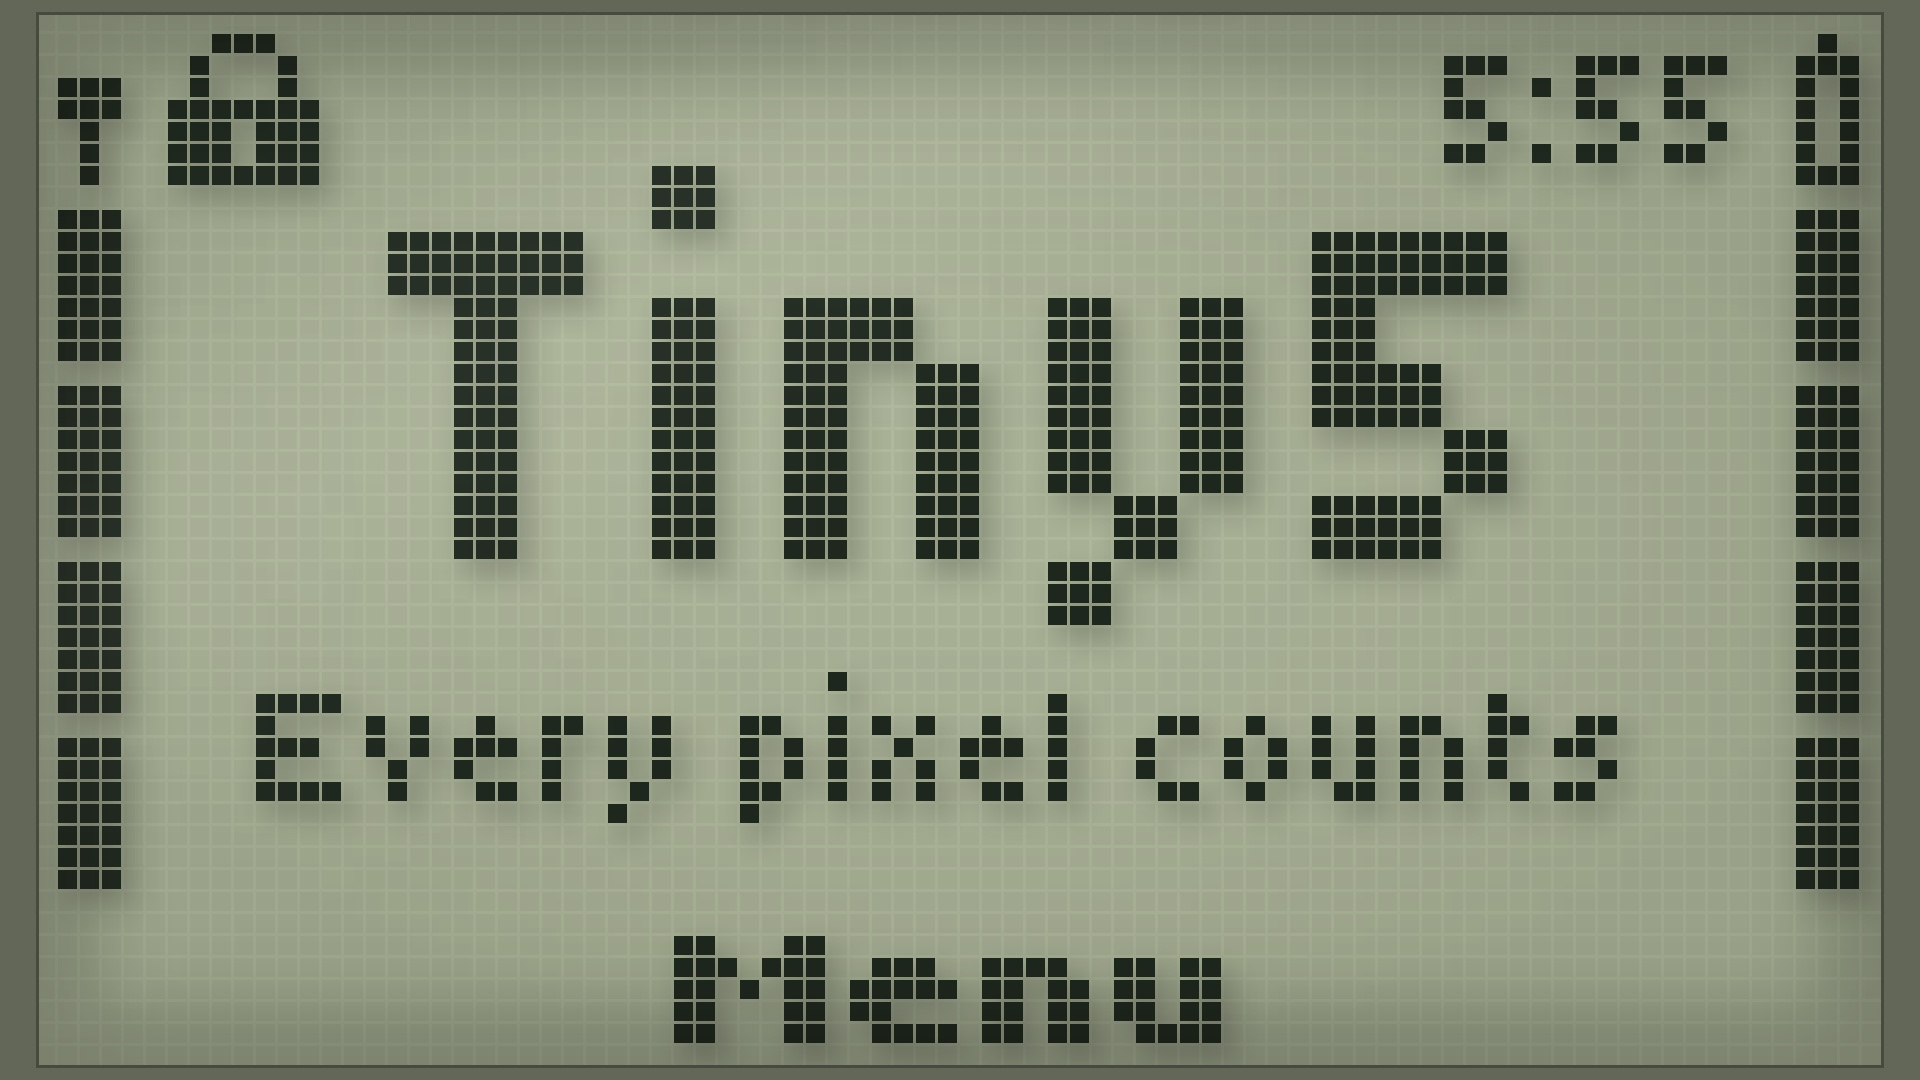
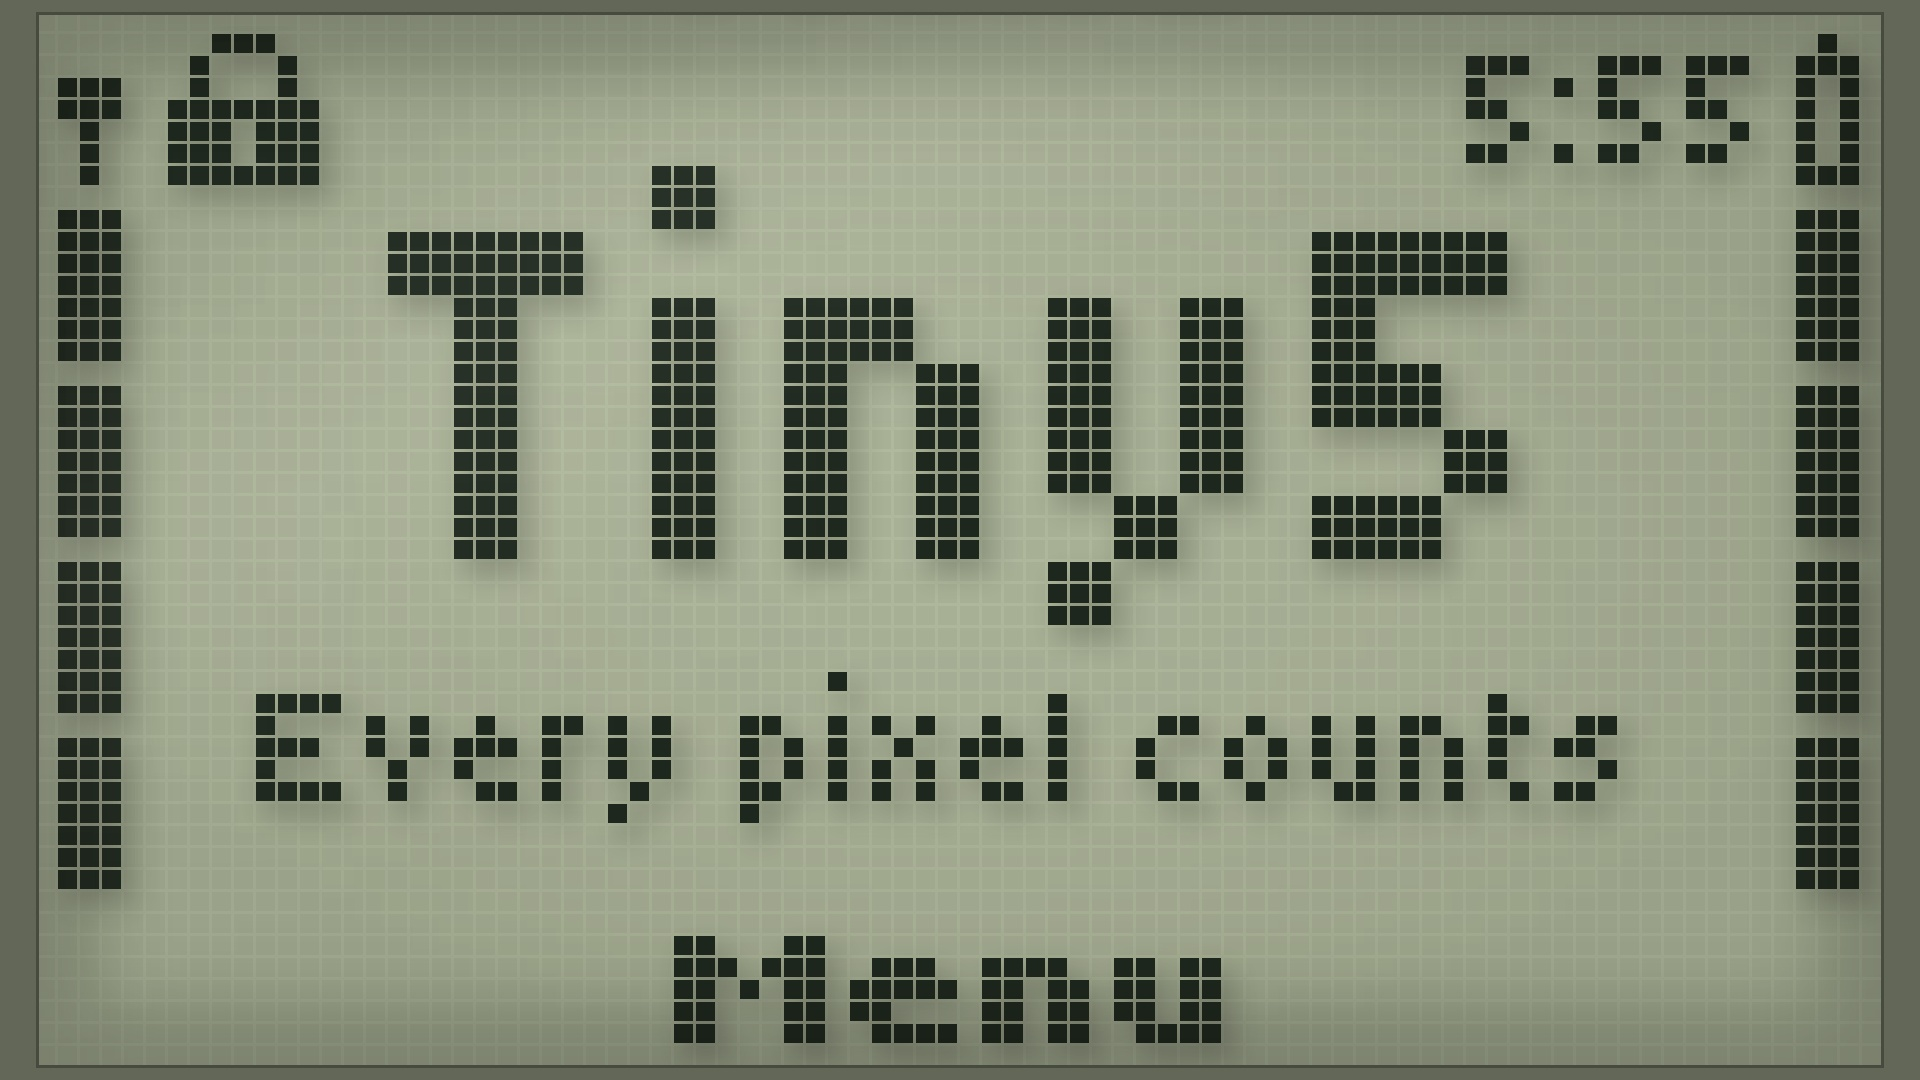
Specimen update

Changed region(s): [[0.75, 0.0306, 0.9062, 0.1528]]

diff --git a/documentation/build-specimen.py b/documentation/build-specimen.py
@@ -580,7 +580,7 @@ def build_hero():
     d.draw.rectangle(xy=[(11, 2), (11, 3)], fill=255)
     d.draw.rectangle(xy=[(6, 4), (12, 7)], fill=255)        # lock body
     d.draw.rectangle(xy=[(9, 5), (9, 6)], fill=0)           # keyhole
-    d.text((width - 6, 7), 1, "5:55", anchor="rs")
+    d.text((width - 5, 7), 1, "5:55", anchor="rs")
 
     # Title with its subtitle, and the softkey label
     d.text((center, 25), 3, "Tiny5", anchor="ms")
